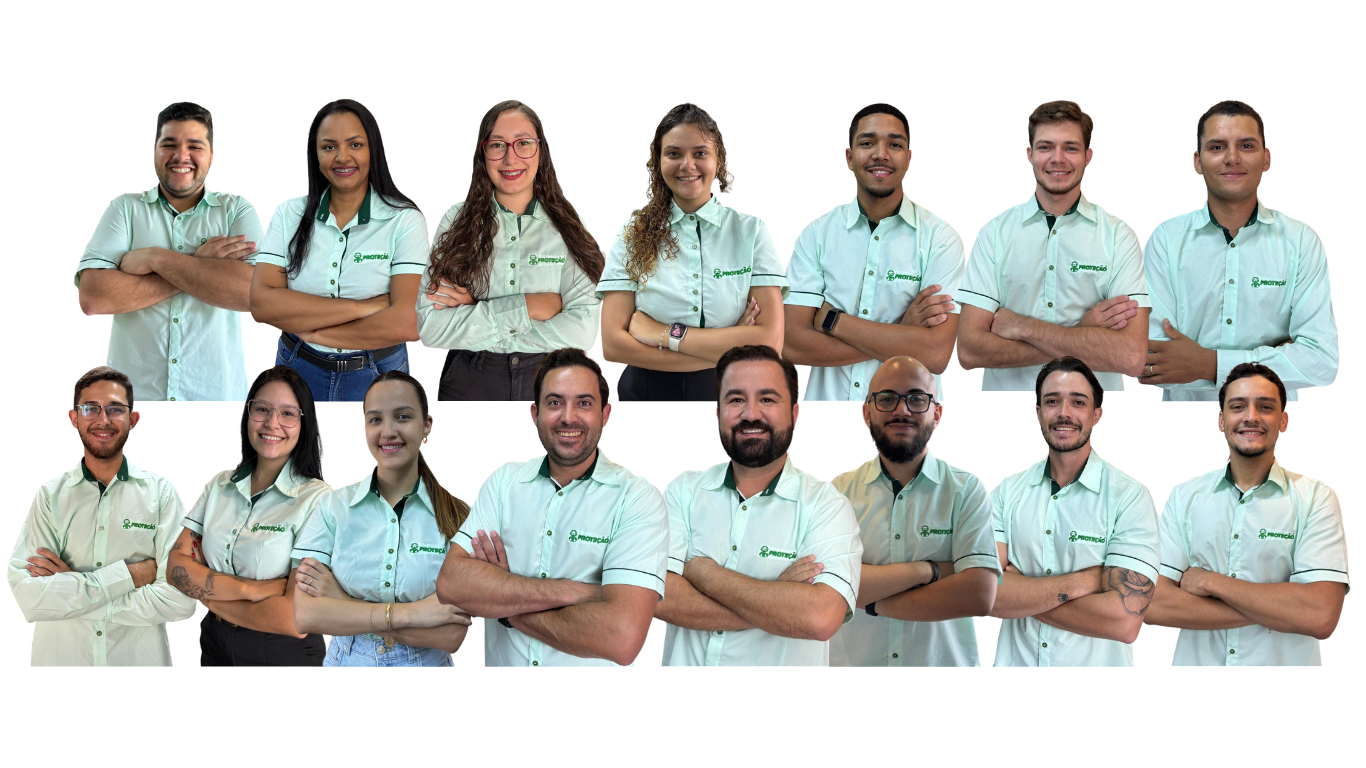
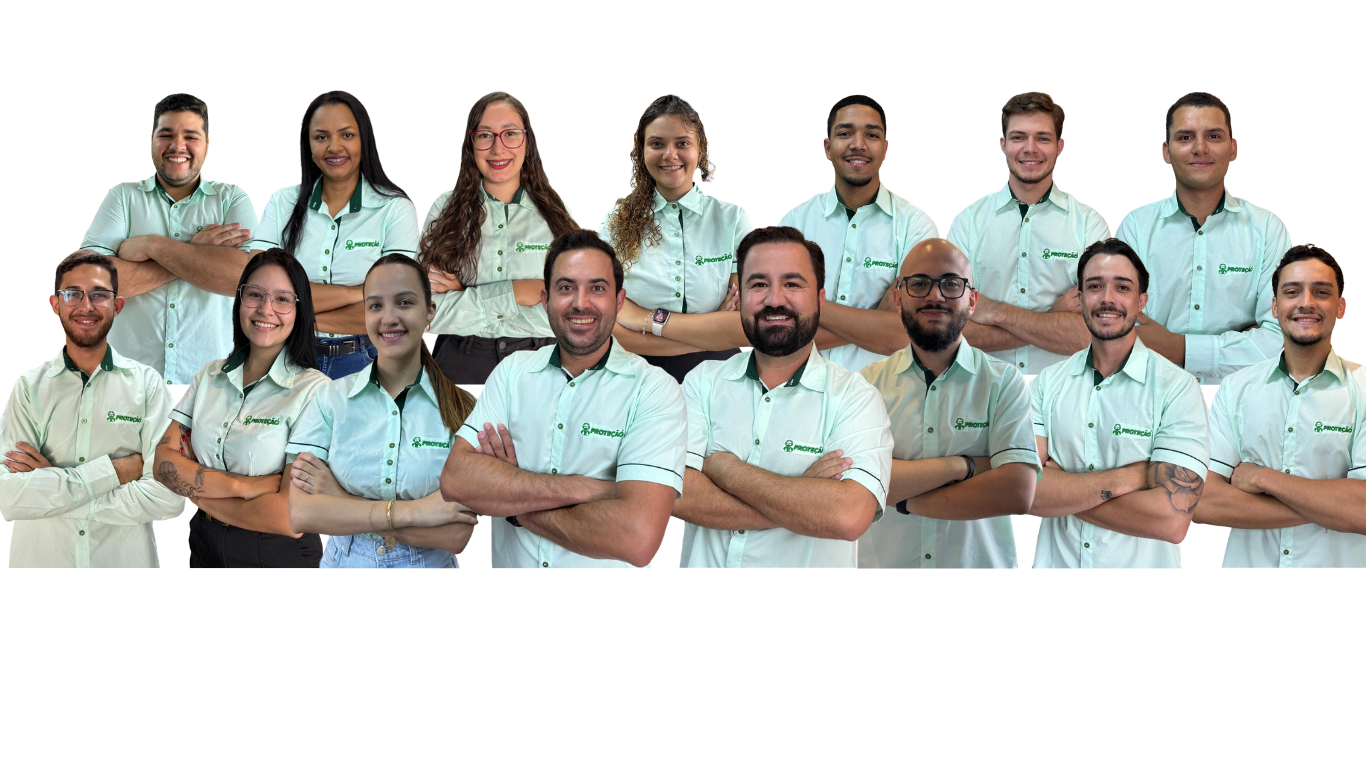
feat: update polaroid mobile centering, swap incendio photo, update team photo

diff --git a/equipe.html b/equipe.html
@@ -634,9 +634,23 @@
         height: 132px;
       }
       /* 3 cards em leque centrado — left: 50px centra um card de 200px em 300px */
-      .polaroid-1 { top: 8px;   left: 50px; transform: rotate(-5deg); z-index: 1; }
-      .polaroid-2 { top: 65px;  left: 50px; transform: rotate(4deg);  z-index: 2; }
-      .polaroid-3 { top: 152px; left: 50px; transform: rotate(-3deg); z-index: 3; }
+      .polaroid-1 {
+  top: 20px;
+  left: 50%;
+  transform: translateX(-75%) rotate(-12deg);
+}
+
+.polaroid-2 {
+  top: 80px;
+  left: 50%;
+  transform: translateX(-50%) rotate(0deg);
+}
+
+.polaroid-3 {
+  top: 140px;
+  left: 50%;
+  transform: translateX(-25%) rotate(12deg);
+}
       /* Ocultar 4º e 5º no mobile */
       .polaroid-4,
       .polaroid-5 { display: none; }
@@ -1229,7 +1243,7 @@
 
         <div class="polaroid-cluster" data-reveal data-delay="200" aria-hidden="true">
           <div class="polaroid polaroid-1">
-            <img src="./assets/campo-incendio.jpg"
+            <img src="./assets/campo-incendio.jpeg"
                  alt="Treinamento de combate a incêndio — PROTEÇÃO"
                  loading="lazy" decoding="async">
             <span class="polaroid-label">Combate a incêndio</span>
